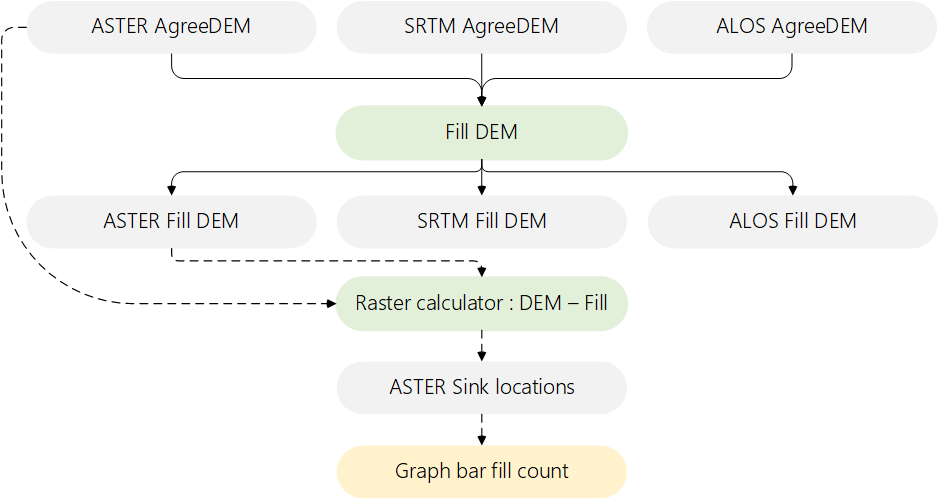
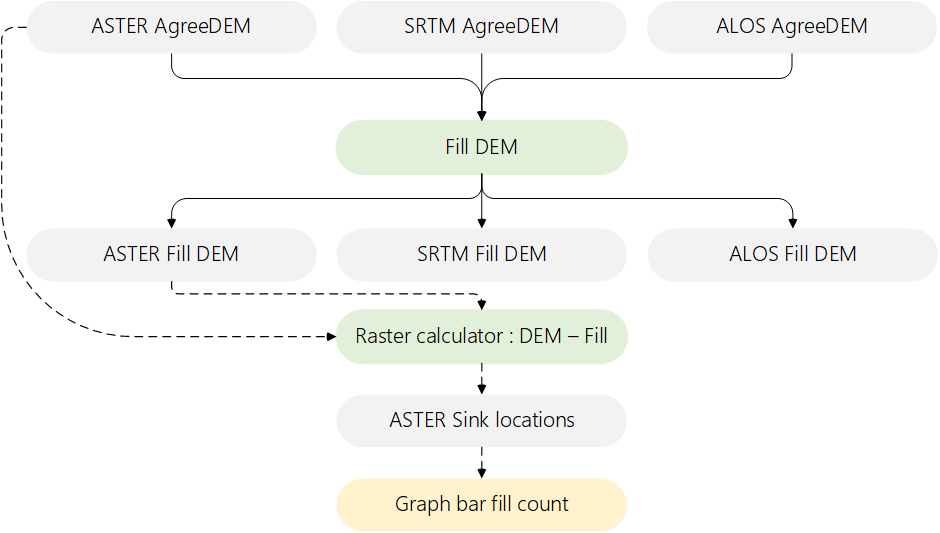
General update - Fill DEM.

diff --git a/Section02/FillDEM/Readme.md b/Section02/FillDEM/Readme.md
@@ -27,7 +27,7 @@ Los modelos digitales de elevación obtenidos a partir de información satelital
 ### Procedimiento general
 
 <div align="center">
-<br><img alt="R.LTWB" src="https://github.com/rcfdtools/R.LTWB/blob/main/Section02/FillDEM/Graph/FillDEMFlowchart.png" width="55%"><br>
+<br><img alt="R.LTWB" src="https://github.com/rcfdtools/R.LTWB/blob/main/Section02/FillDEM/Graph/FillDEMFlowchart.png" width="65%"><br>
 <sub>Convenciones del diagrama: Clases de entidad y grillas en gris, Geo-procesos en verde y Procesos manuales en amarillo.<br>Líneas con guiones corresponden a procedimientos opcionales.</sub><br><br>
 </div>
 
